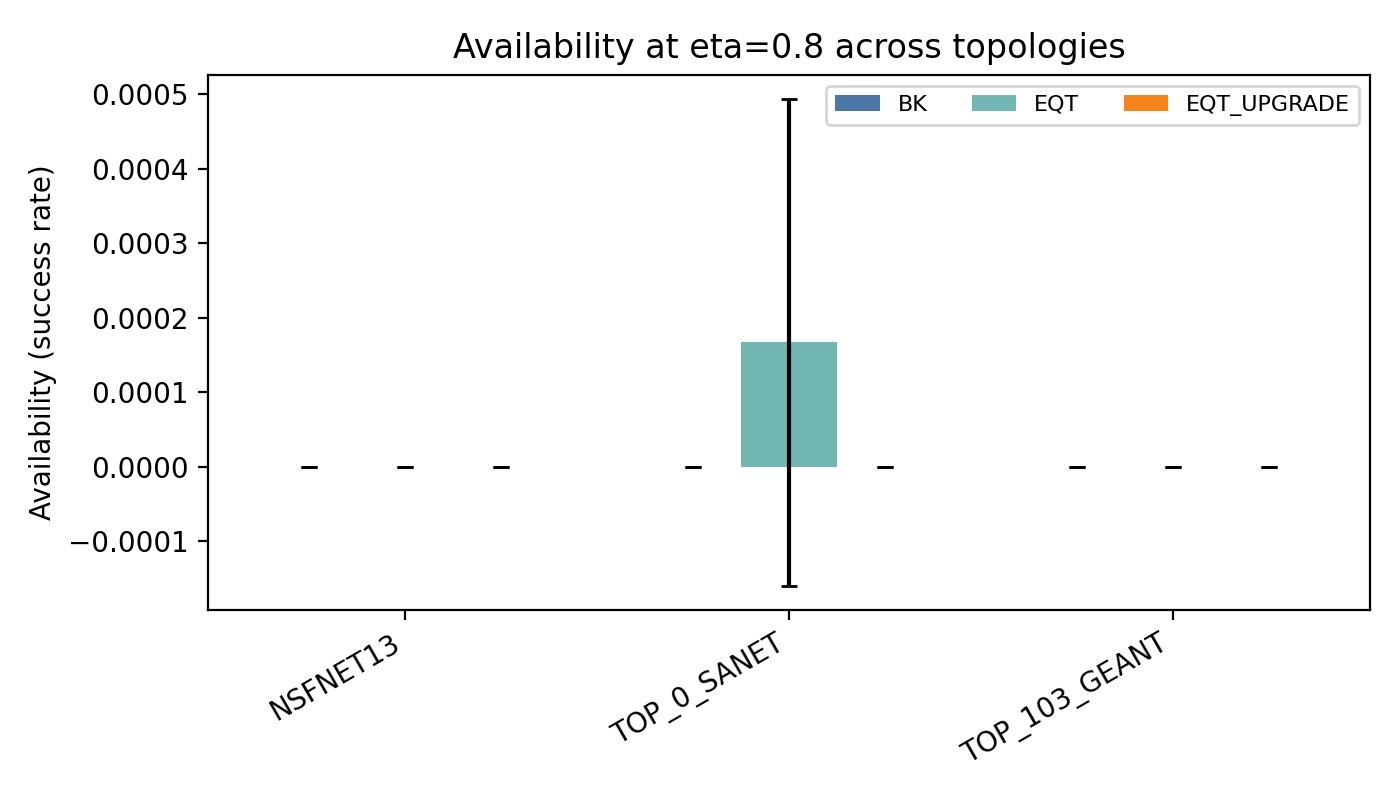
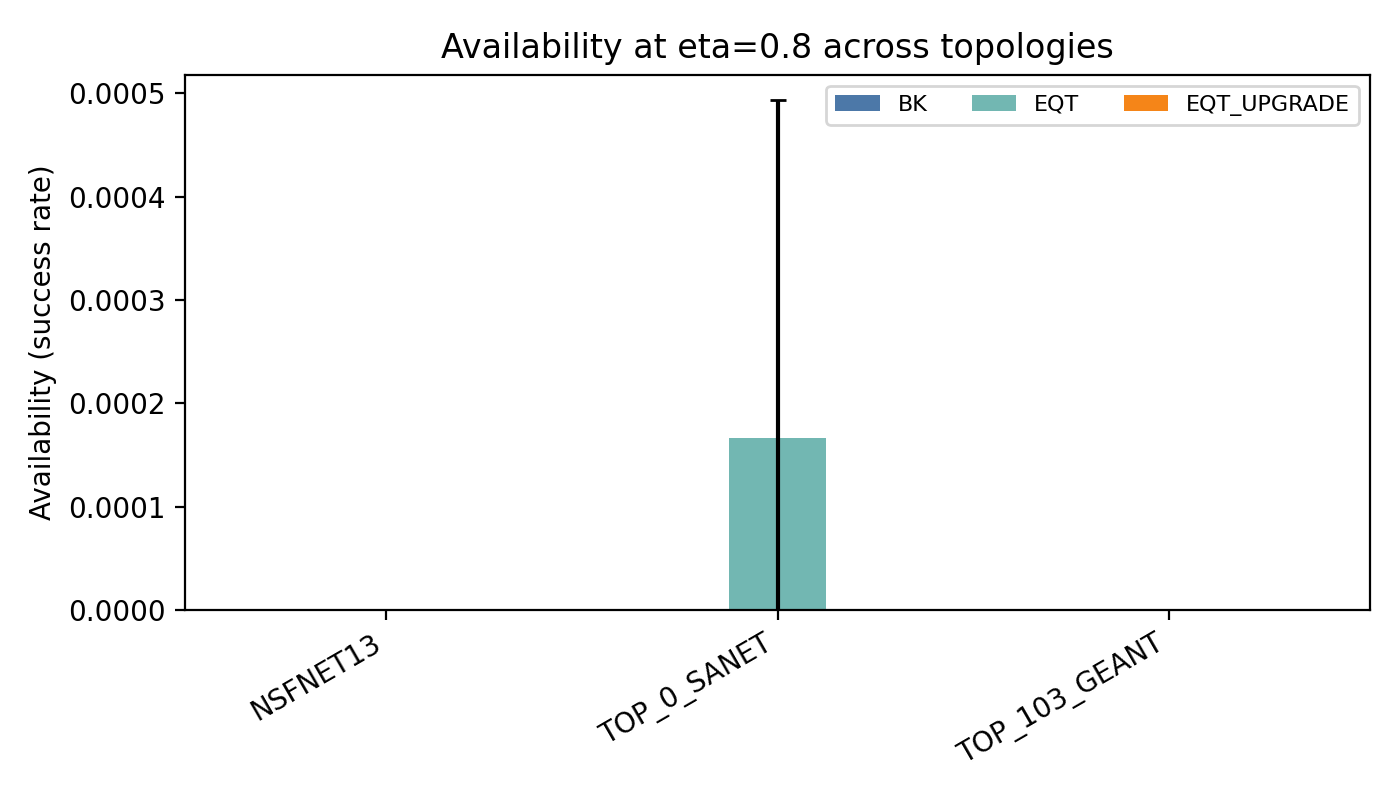
Fix topology diagnosis + CI clamp + best-upgrade selection

diff --git a/scripts/build_paper_artifacts.py b/scripts/build_paper_artifacts.py
@@ -242,8 +242,9 @@ def write_table_compact(agg: pd.DataFrame, path: Path) -> dict[str, float]:
     upgrade_rows = subset[(subset["scenario"] == "EQT_UPGRADE") & (subset["k"] > 0)]
     best_upgrade = None
     if not upgrade_rows.empty:
-        best_idx = upgrade_rows["mean_success_rate"].idxmax()
-        best_upgrade = upgrade_rows.loc[best_idx]
+        best_upgrade = (
+            upgrade_rows.sort_values(["mean_success_rate", "k"], ascending=[False, True]).iloc[0]
+        )
         rows.append((f"EQT_UPGRADE k={int(best_upgrade['k'])}", best_upgrade))
 
     lines = [
@@ -293,9 +294,12 @@ def write_macros(path: Path, values: dict[str, float]) -> None:
 
 def write_readme(path: Path, agg: pd.DataFrame, out_root: Path) -> None:
     key_findings = []
-    subset = agg[(agg["study"] == "study_upgrade_k") & (agg["eta"] == 0.8)]
+    subset = agg[
+        (agg["study"] == "study_upgrade_k") & (agg["eta"] == 0.8) & (agg["topology"] == "nsfnet")
+    ]
     if not subset.empty:
         bk = subset[(subset["scenario"] == "BK") & (subset["k"] == 0)]
+        eqt = subset[(subset["scenario"] == "EQT") & (subset["k"] == 0)]
         if not bk.empty:
             key_findings.append(
                 f"eta=0.8 BK mean={format_float(float(bk.iloc[0]['mean_success_rate']))} "
@@ -304,12 +308,15 @@ def write_readme(path: Path, agg: pd.DataFrame, out_root: Path) -> None:
             )
         upgrades = subset[(subset["scenario"] == "EQT_UPGRADE") & (subset["k"] > 0)]
         if not upgrades.empty:
-            best = upgrades.loc[upgrades["mean_success_rate"].idxmax()]
+            best = upgrades.sort_values(["mean_success_rate", "k"], ascending=[False, True]).iloc[0]
+            note = ""
+            if not eqt.empty and float(best["mean_success_rate"]) <= float(eqt.iloc[0]["mean_success_rate"]):
+                note = " (best among upgrade-k; may not improve over EQT)"
             key_findings.append(
                 f"eta=0.8 best EQT_UPGRADE k={int(best['k'])} mean="
                 f"{format_float(float(best['mean_success_rate']))} "
                 f"(95% CI {format_float(float(best['ci95_low']))}--"
-                f"{format_float(float(best['ci95_high']))})."
+                f"{format_float(float(best['ci95_high']))}).{note}"
             )
 
     raw_notes = []
@@ -437,6 +444,8 @@ def main() -> int:
     agg["std_success_rate"] = agg["std_success_rate"].fillna(0.0)
     agg["ci95_low"] = agg["mean_success_rate"] - 1.96 * agg["std_success_rate"] / agg["n_seeds"].pow(0.5)
     agg["ci95_high"] = agg["mean_success_rate"] + 1.96 * agg["std_success_rate"] / agg["n_seeds"].pow(0.5)
+    agg["ci95_low"] = agg["ci95_low"].clip(lower=0.0, upper=1.0)
+    agg["ci95_high"] = agg["ci95_high"].clip(lower=0.0, upper=1.0)
     agg.to_csv(artifacts_dir / "results_agg.csv", index=False)
 
     write_table_full(agg, artifacts_dir / "results_table_full.tex")

diff --git a/scripts/plot_paper_artifacts.py b/scripts/plot_paper_artifacts.py
@@ -42,15 +42,30 @@ def label_for(row: pd.Series) -> str:
     return f"{row['scenario']} k={int(row['k'])}"
 
 
+def select_best_upgrade(df: pd.DataFrame, *, eta: float, topology: str) -> pd.Series | None:
+    subset = df[
+        (df["eta"] == eta)
+        & (df["scenario"] == "EQT_UPGRADE")
+        & (df["k"] > 0)
+        & (df["topology"] == topology)
+    ]
+    if subset.empty:
+        return None
+    subset = subset.sort_values(["mean_success_rate", "k"], ascending=[False, True])
+    return subset.iloc[0]
+
+
 def plot_bar_eta08(df: pd.DataFrame, outdir: Path) -> list[Path]:
-    subset = df[(df["eta"] == 0.8) & (df["k"] == 0) & (df["scenario"].isin(["BK", "DQT", "EQT"]))]
-    upgrades = df[(df["eta"] == 0.8) & (df["scenario"] == "EQT_UPGRADE") & (df["k"] > 0)]
+    subset = df[(df["eta"] == 0.8) & (df["k"] == 0) & (df["scenario"].isin(["BK", "EQT"]))]
+    if "topology" in df.columns:
+        subset = subset[subset["topology"] == "nsfnet"]
     rows = []
     if not subset.empty:
         rows.extend(subset.to_dict("records"))
-    if not upgrades.empty:
-        best = upgrades.loc[upgrades["mean_success_rate"].idxmax()].to_dict()
-        rows.append(best)
+    if "topology" in df.columns:
+        best_upgrade = select_best_upgrade(df, eta=0.8, topology="nsfnet")
+        if best_upgrade is not None:
+            rows.append(best_upgrade.to_dict())
 
     if not rows:
         return []

diff --git a/out/paper_artifacts/results_table_full.tex b/out/paper_artifacts/results_table_full.tex
@@ -11,7 +11,7 @@ study\_topology\_sweep & NSFNET13 & BK & 0.80 & 0 & 30 & 0.0000 & 0.0000--0.0000
 study\_topology\_sweep & NSFNET13 & EQT & 0.80 & 0 & 30 & 0.0000 & 0.0000--0.0000 \\
 study\_topology\_sweep & NSFNET13 & EQT\_UPGRADE & 0.80 & 1 & 30 & 0.0000 & 0.0000--0.0000 \\
 study\_topology\_sweep & TOP\_0\_SANET & BK & 0.80 & 0 & 30 & 0.0000 & 0.0000--0.0000 \\
-study\_topology\_sweep & TOP\_0\_SANET & EQT & 0.80 & 0 & 30 & 0.0002 & -0.0002--0.0005 \\
+study\_topology\_sweep & TOP\_0\_SANET & EQT & 0.80 & 0 & 30 & 0.0002 & 0.0000--0.0005 \\
 study\_topology\_sweep & TOP\_0\_SANET & EQT\_UPGRADE & 0.80 & 1 & 30 & 0.0000 & 0.0000--0.0000 \\
 study\_topology\_sweep & TOP\_103\_GEANT & BK & 0.80 & 0 & 30 & 0.0000 & 0.0000--0.0000 \\
 study\_topology\_sweep & TOP\_103\_GEANT & EQT & 0.80 & 0 & 30 & 0.0000 & 0.0000--0.0000 \\

diff --git a/out/paper_artifacts/README.md b/out/paper_artifacts/README.md
@@ -35,8 +35,8 @@ Raw data
 - eta sanity raw CSVs: out/study_eta_sanity/raw
 - topology sweep raw CSVs: out/study_topology_sweep/raw
 
-Git commit: 5698bd615ff77093bc2d4a6826e20982812706fd
+Git commit: 703e7caef96a04061b2d6efe48d7d9ff4c7a734d
 
 Key findings
 - eta=0.8 BK mean=0.0000 (95% CI 0.0000--0.0000).
-- eta=0.8 best EQT_UPGRADE k=1 mean=0.0000 (95% CI 0.0000--0.0000).
+- eta=0.8 best EQT_UPGRADE k=1 mean=0.0000 (95% CI 0.0000--0.0000). (best among upgrade-k; may not improve over EQT)
